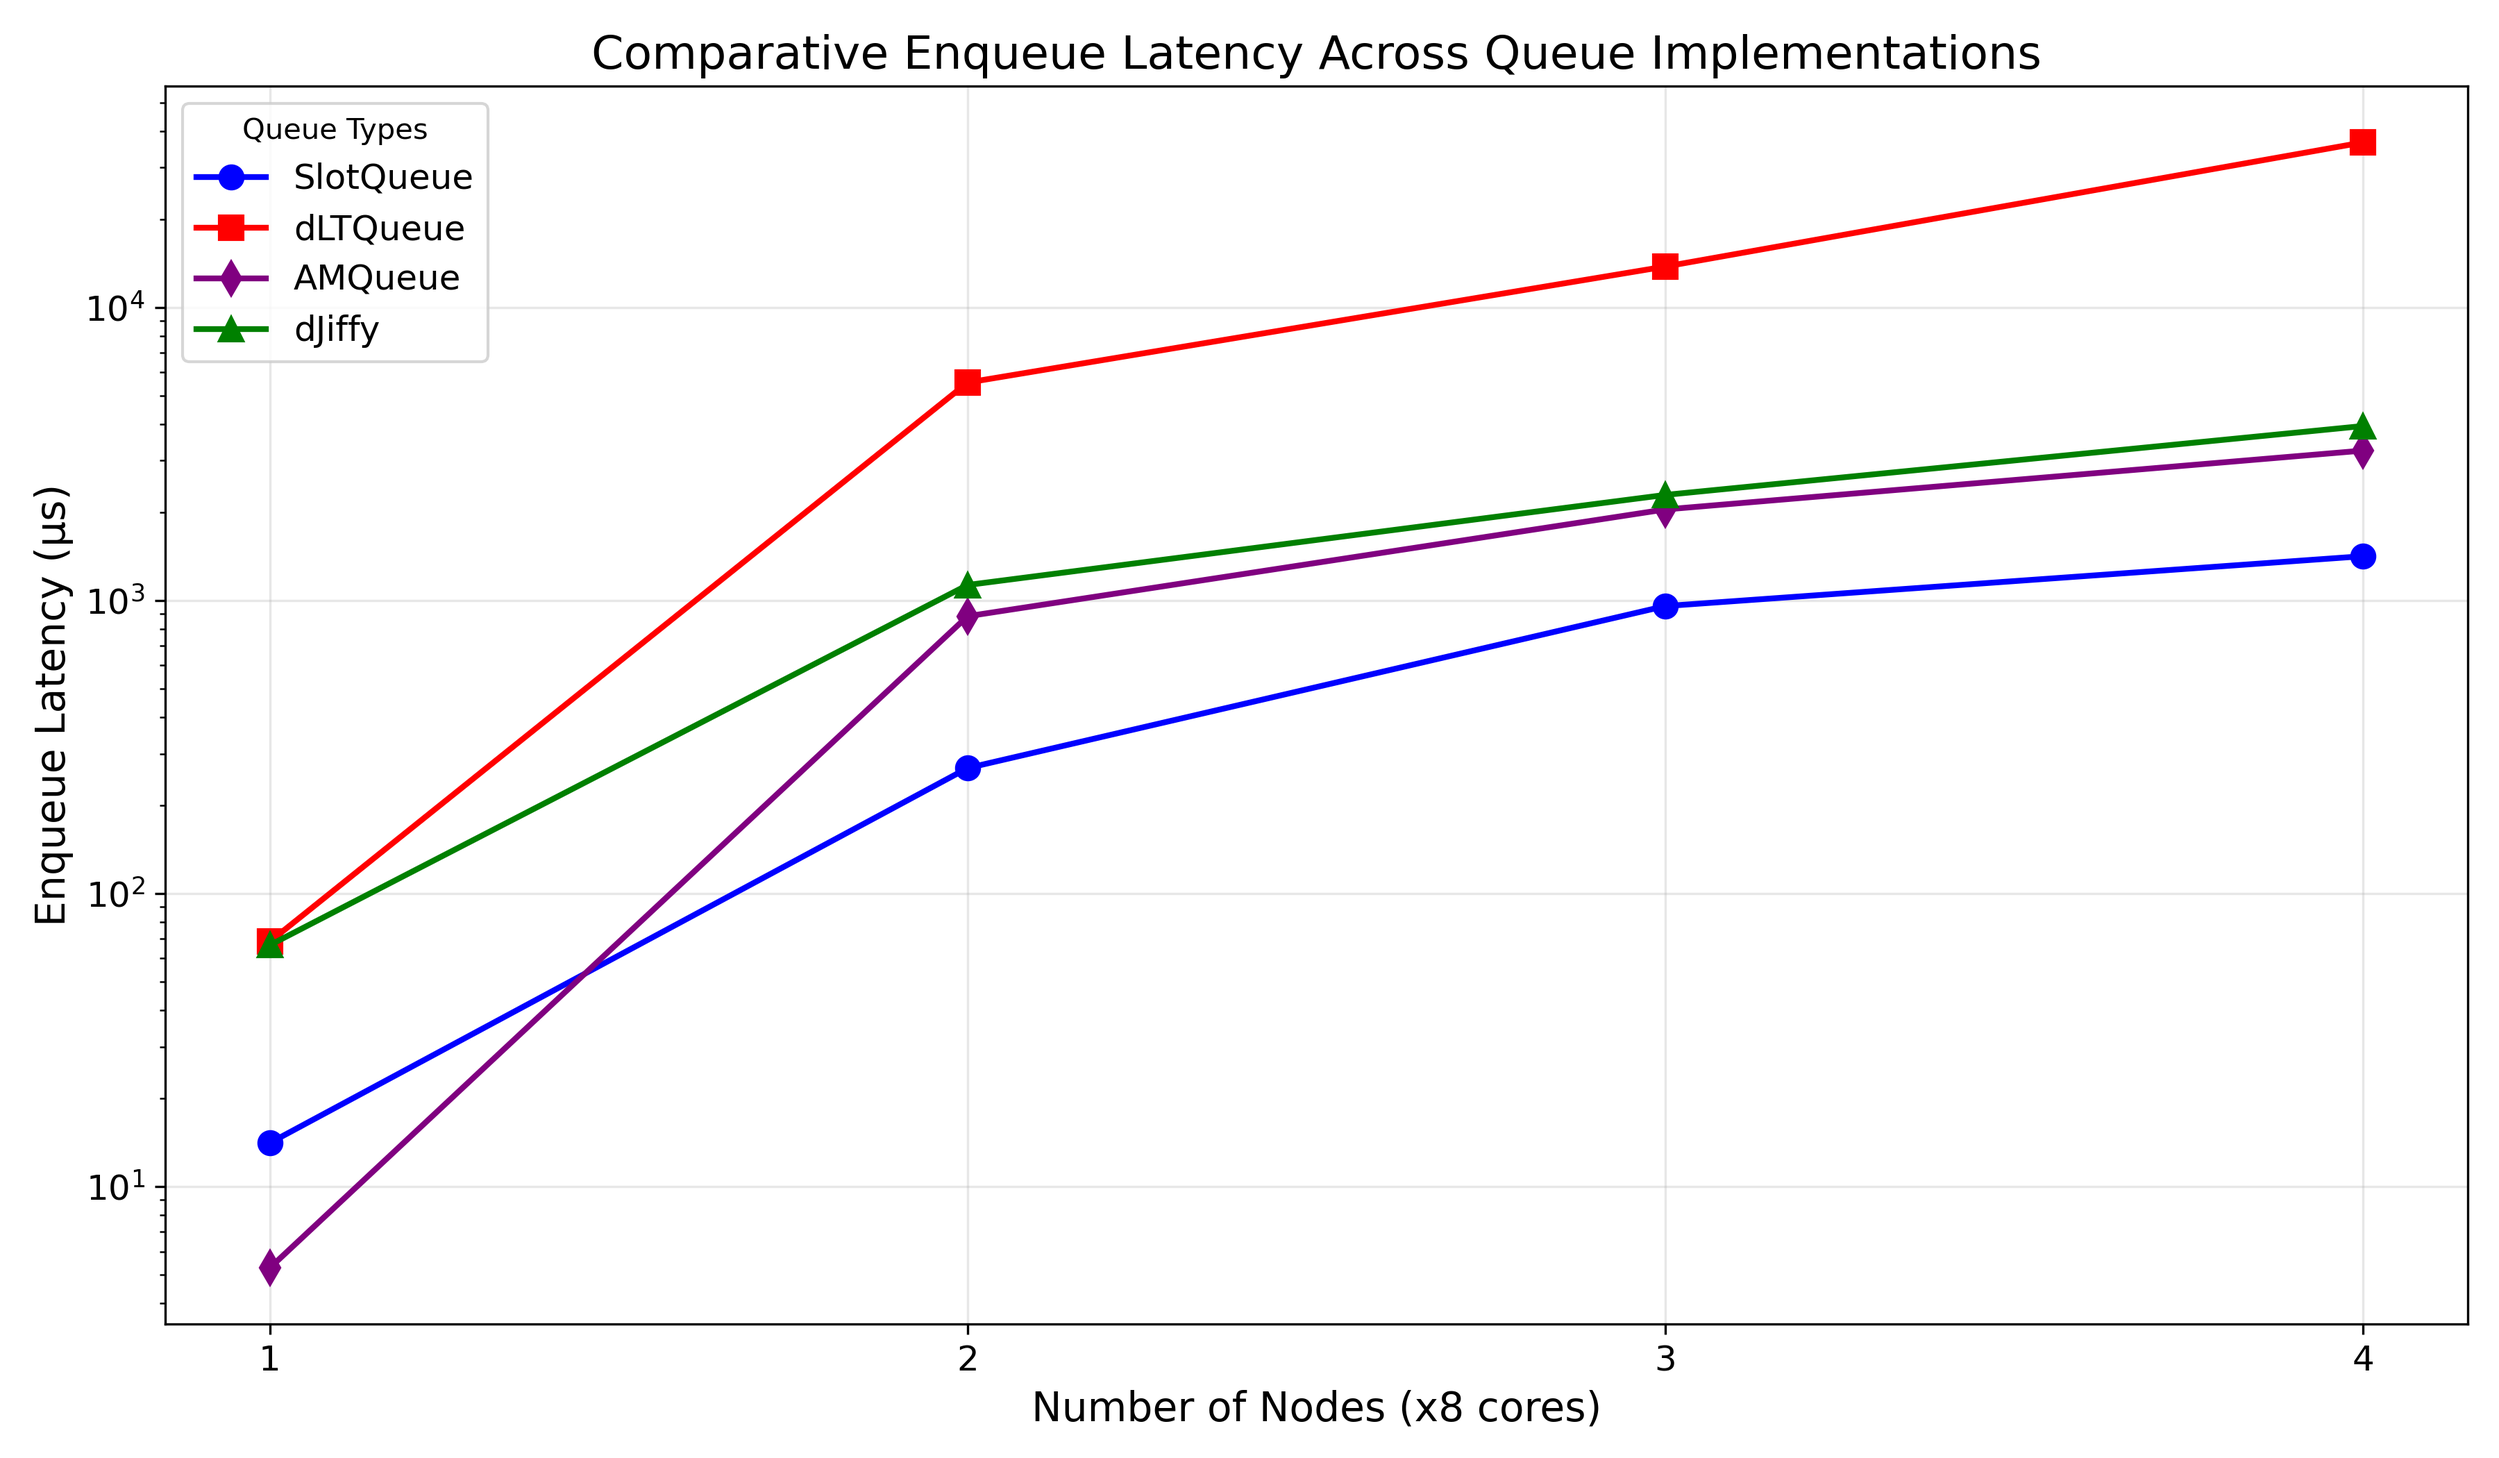
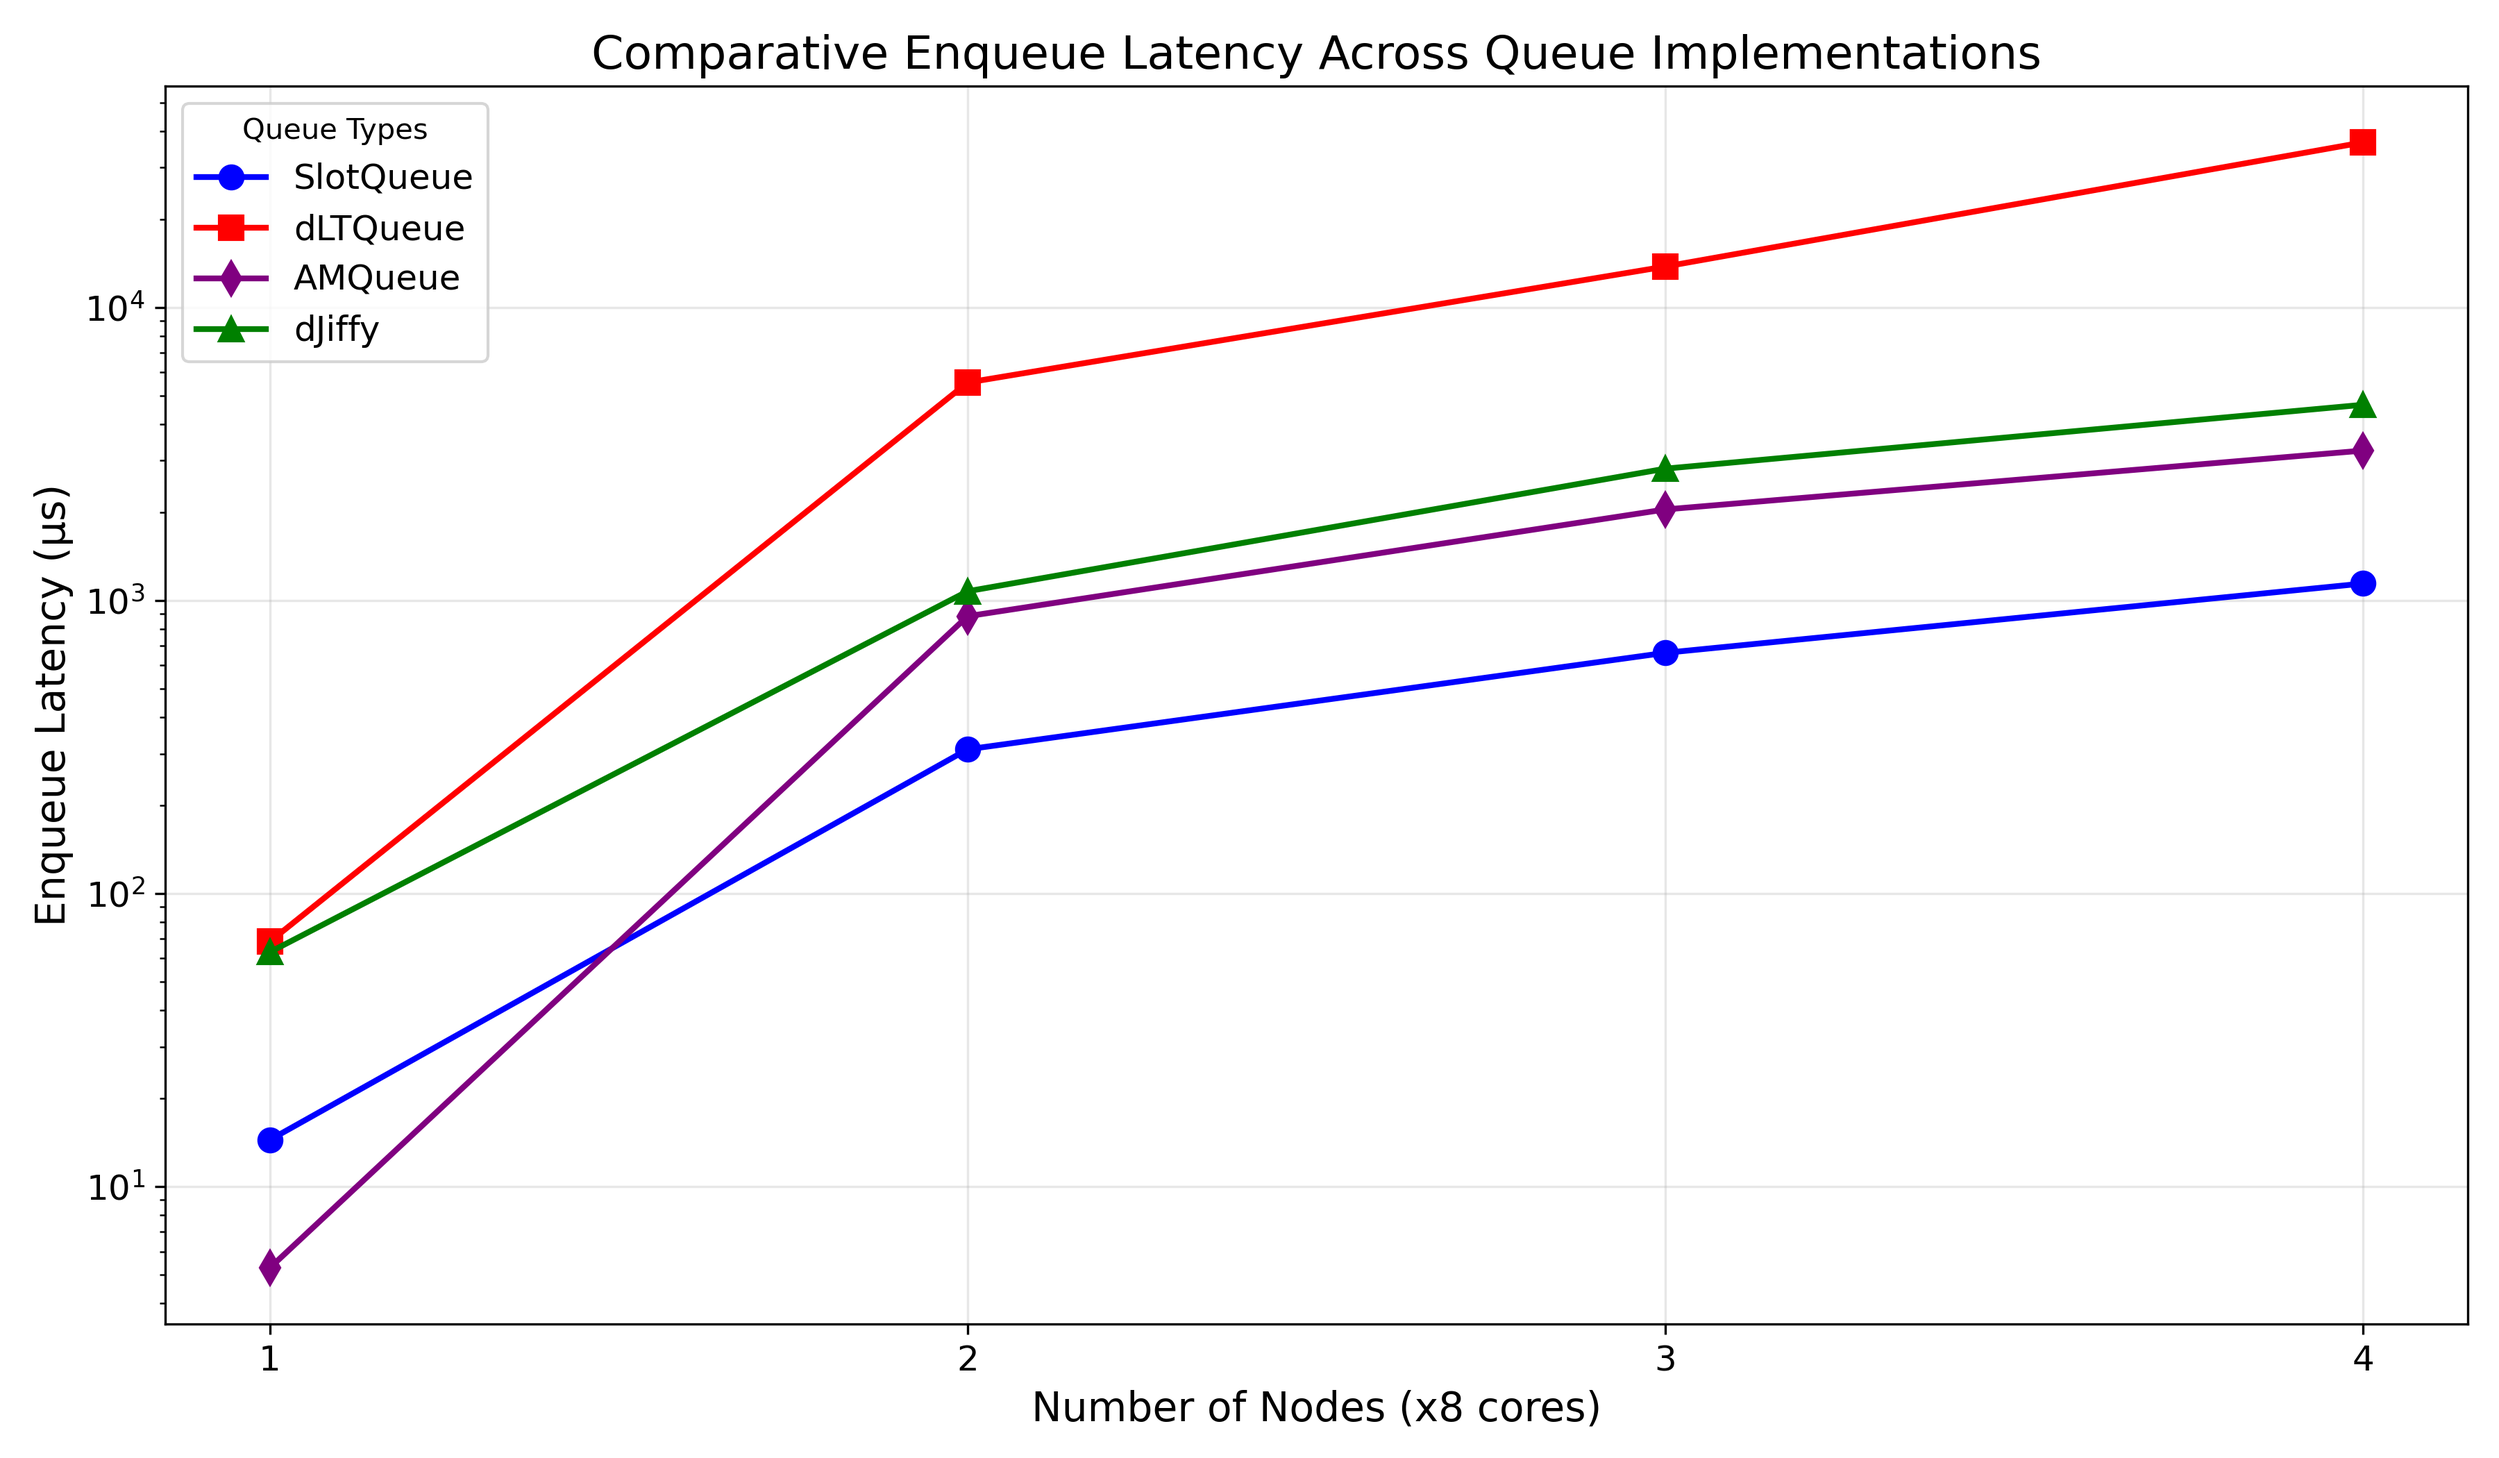
fix: viz

diff --git a/viz/microbenchmarks/single-one-queue/non-rdma-cluster/by-nodes.py b/viz/microbenchmarks/single-one-queue/non-rdma-cluster/by-nodes.py
@@ -6,11 +6,11 @@ os.makedirs(output_dir, exist_ok=True)
 nodes = [1, 2, 3, 4]
 queue_data = {
     "SlotQueue": {
-        "dequeue_throughput": [1.45806, 0.143827, 0.0912495, 0.0890932],
-        "dequeue_latency": [6.85842, 69.5281, 109.59, 112.242],
-        "enqueue_throughput": [4.97149, 0.559945, 0.240373, 0.218914],
-        "enqueue_latency": [14.0803, 267.884, 956.848, 1416.08],
-        "total_throughput": [2.91615, 0.287661, 0.182503, 0.178192],
+        "dequeue_throughput": [1.56265, 0.13201, 0.115092, 0.0999554],
+        "dequeue_latency": [6.39938, 75.7521, 86.8868, 100.045],
+        "enqueue_throughput": [4.85393, 0.4833, 0.347113, 0.271415],
+        "enqueue_latency": [14.4213, 310.366, 662.608, 1142.16],
+        "total_throughput": [3.12577, 0.264085, 0.230242, 0.200041],
     },
     "dLTQueue": {
         "dequeue_throughput": [0.287441, 0.00543658, 0.00321616, 0.00235801],
@@ -27,11 +27,11 @@ queue_data = {
         "total_throughput": [25.6201, 0.179615, 0.155351, 0.145486],
     },
     "dJiffy": {
-        "dequeue_throughput": [0.60406, 0.0740857, 0.0695117, 0.0584624],
-        "dequeue_latency": [16.5546, 134.979, 143.861, 171.05],
-        "enqueue_throughput": [1.05048, 0.132834, 0.100353, 0.078712],
-        "enqueue_latency": [66.6364, 1129.23, 2291.91, 3938.41],
-        "total_throughput": [1.20813, 0.14291, 0.130728, 0.11565],
+        "dequeue_throughput": [0.63589, 0.00396241, 0.00320866, 0.00317752],
+        "dequeue_latency": [15.726, 2523.72, 3116.56, 3147.11],
+        "enqueue_throughput": [1.10986, 0.13955, 0.0816475, 0.0666038],
+        "enqueue_latency": [63.0711, 1074.88, 2816.99, 4654.39],
+        "total_throughput": [1.27242, 0.00794463, 0.00645583, 0.00642811],
     },
 }
 metrics = [
